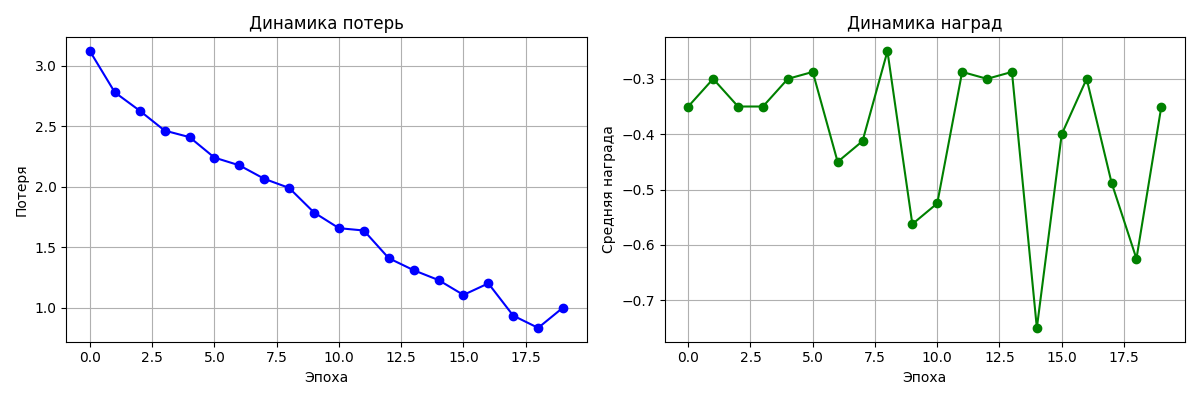
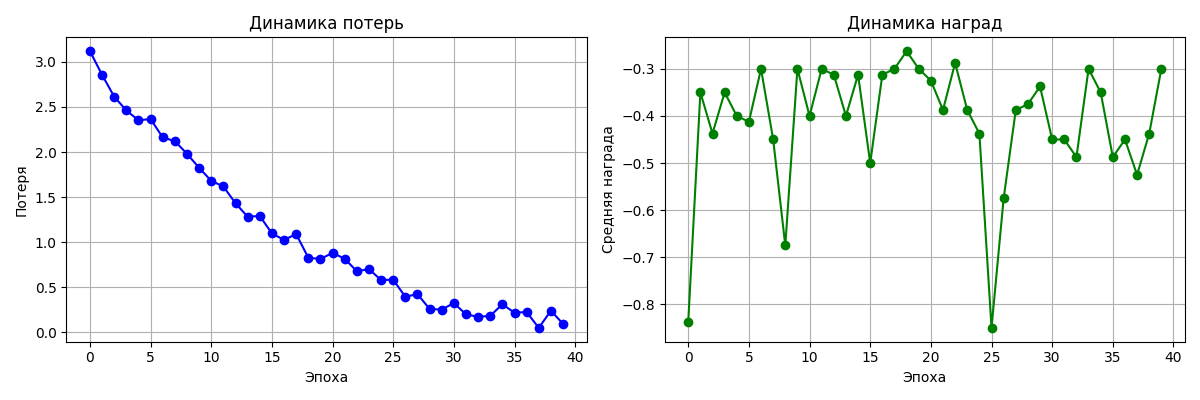
readme

diff --git a/README.md b/README.md
@@ -1,2 +1,38 @@
 # MCP-Tool-RL
-Разработка системы автоматического выбора инструментов в условиях нестабильной сети
+Система для обучения LLM выбору инструментов с учётом состояния сети.
+
+# Создание активации виртуального окружения
+ **Windows** \
+`py -3.10 -m venv venv` \
+`.\venv\Scripts\Activate.ps1`
+
+ **Linux/Mac**\
+`python3.10 -m venv venv` \
+`source venv/bin/activate`
+
+# Установка зависимостей 
+ **Обновление pip** \
+`python -m pip install --upgrade pip`
+
+**Установка пакетов** \
+`pip install -r requirements.txt`
+
+# Обучение модели
+**Базовое обучение (20 эпох)**\
+`python main.py --mode train --epochs 20`
+
+**Увеличить до 40 эпох для лучшего результата**\
+`python main.py --mode train --epochs 40`
+
+**С загрузкой конкретного чекпоинта**\
+`python main.py --mode train --epochs 20 --checkpoint checkpoints/epoch_20`
+
+# Интерактивный режим(тестирование)
+**С лучшей моделью**\
+`python main.py --mode interactive --checkpoint checkpoints/epoch_40`
+
+**Без указания чекпоинта (базовая модель)** \
+`python main.py --mode interactive`
+
+# Оценка модели
+`python main.py --mode evaluate --checkpoint checkpoints/epoch_40`
